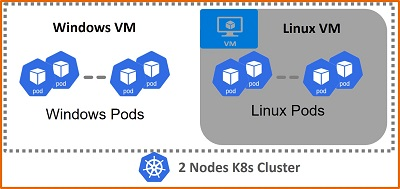
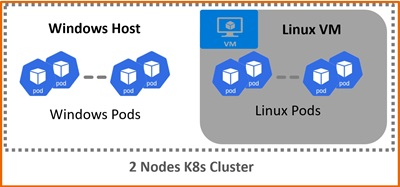
#30 docs: correct images and add additional info

diff --git a/doc/K8s_Features.md b/doc/K8s_Features.md
@@ -14,6 +14,9 @@ K2s Features
 - support of mixed Windows and Linux K8s (Kubernetes) workloads
 - support for multiple Windows 10,11 and Server OS versions
 - multiple network card support, including support for LAN and WIFI network interfaces
+- offline support by being able to operate the K8s cluster and workloads without internet connectivity
+- [image command](K8s_BuildingAContainer.md) for building and testing Windows and Linux containers
+- [rich set of addons](../addons/README.md) which can be used optionally for additional functionality 
 - K2s supports 3 variants in hosting:
     
     1. **Host Variant**: here on the Windows host only one Virtual Machine is created and used as the Linux master and worker node.